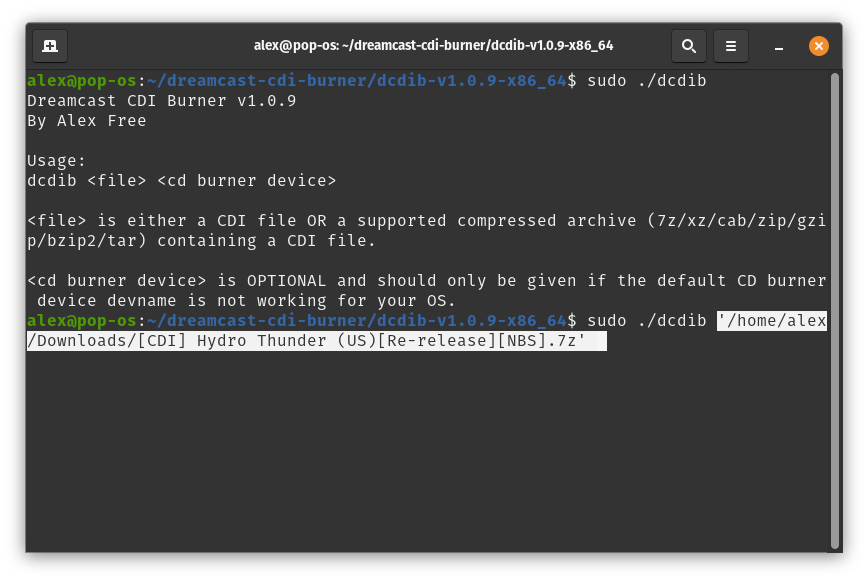
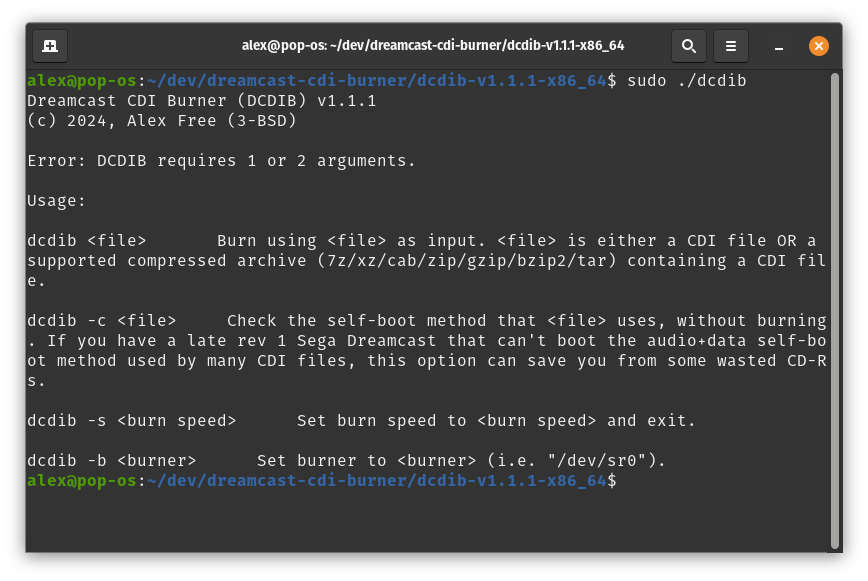
v1.1.1

diff --git a/readme.md b/readme.md
@@ -2,49 +2,77 @@
 
 _by Alex Free_
 
- DCDIB is an open source toolkit for burning Sega Dreamcast `.cdi` files (used for self-booting homebrew programs and backups) to CD-R discs on Linux! CDI is the proprietary format of the Windows only software DiscJuggler. CDI is a very popular format for Sega Dreamcast software distribution. The CD-Rs you burn with DCDIB will _just work_ and boot like authentic Sega Dreamcast GD-ROM discs on revision 0 and revision 1 Sega Dreamcast consoles. **Revision 2 Sega Dreamcast consoles may or may not work with self-booting CD-Rs** due to the MIL-CD exploit being removed from the BIOS chip found on at least some revision 2 consoles. To find out what revision your Sega Dreamcast console is, flip the entire console upside-down and look for the number 0, 1, or 2 in a circle on the model sticker as displayed below:
-
-![dreamcast rev 1 console](images/dreamcast-rev-1.jpg)
-
-DCDIB supports burning **all 4 Sega Dreamcast CDI file format types**:
-
-*   Data ISO (Session 1) + Data ISO (Session 2)
-*   WAV/audio track (Session 1) + Data ISO (Session 2)
-*   Multiple CDDA WAVs/audio tracks (Session 1) + Data ISO (Session 2)
-*   Multiple CDDA WAVs/audio tracks in an ISO (Session 1) + Data ISO (Session 2)
-
-## Links
-
-*   [GitHub](https://github.com/alex-free/dreamcast-cdi-burner)
-*   [Homepage](https://alex-free.github.io/dcdib)
-*   [Dreamcast-Talk Thread](https://www.dreamcast-talk.com/forum/viewtopic.php?f=2&t=13974)
+ DCDIB is an open source toolkit for burning Sega Dreamcast `.cdi` files (used for self-booting homebrew programs and backups) to CD-R discs on Linux! CDI is the proprietary format of the Windows-only software DiscJuggler. CDI is a very popular format for Sega Dreamcast software distribution. The CD-Rs you burn with DCDIB will _just work_ and boot like authentic Sega Dreamcast GD-ROM discs.
+ 
+ | [GitHub](https://github.com/alex-free/dreamcast-cdi-burner) | [Homepage](https://alex-free.github.io/dcdib) | [Dreamcast-Talk Thread](https://www.dreamcast-talk.com/forum/viewtopic.php?f=2&t=13974) |
 
 ## Table Of Contents
 
-*   [Downloads](#downloads)
-*   [CD-R Media](#cd-r-media)
-*   [Usage](#usage)
-*   [Building From Source](build.md)
-*   [License](#license)
+* [Downloads](#downloads)
+* [Self-Boot Console Compatibility](#self-boot-console-compatibility)
+* [CDI Compatibility](#cdi-compatibility)
+* [CD-R Media](#cd-r-media)
+* [Usage](#usage)
+* [Building From Source](build.md)
+* [License](#license)
 
 ## Downloads
 
-### v1.1.0 (5/24/2024)
-
-*   [DCDIB v1.1.0](https://github.com/alex-free/dreamcast-cdi-burner/releases/download/v1.1.0/dcdib-v1.1.0-x86_64.zip) _Portable Release For x86\_64 Linux_.
+### v1.1.1 (9/28/2024)
 
 Changes:
 
-*   Updated CDRTools/CDRecord to the last official version by the original author, [version 3.02a9](https://github.com/alex-free/cdrtools).
+* Added ability to test what self-boot format a CDI file is using, without burning it. This is useful to identify CDI files that are using the audio+data self-boot format, which don't work on later rev 1 Sega Dreamcast consoles. To use this feature, provide the `-c` arguemnt (i.e. `dcdib -c file.cdi`).
 
-*   Fixed a bug where data type CDI files were not closed in the 2nd session during the final burn.
+* Added ability to change the burn speed with an argument (i.e. 'dcdib -s 8'). The burn speed is saved to a config file, and used automatically when dcdib is ran again.
 
-[About previous versions](changelog.md).
+* Added ability to change the burner with an argument (i.e. 'dcdib -b /dev/sr1'). The burner is saved to a config file, and used automatically when dcdib is ran again.
+
+* Updated [PLED](https://github.com/alex-free/pled) to the latest version 1.0.5.
+
+* Temp file directory has been moved from `/tmp` to `/var/tmp`.
+
+* Change to [3-BSD license](license.md) from public domain.
+
+-------------------------------------------------------------------------------------
+
+*   [DCDIB v1.1.1](https://github.com/alex-free/dreamcast-cdi-burner/releases/download/v1.1.1/dcdib-v1.1.1-x86_64.zip) _Portable Release For x86\_64 Linux_.
+
+-------------------------------------------------------------------------------------
+
+[Previous versions](changelog.md).
+
+## CDI Compatibility
+
+DCDIB supports burning **all 4 Sega Dreamcast CDI file format types**:
+
+*   Data ISO (Session 1) + Data ISO (Session 2) (Data+Data method).
+*   WAV/audio track (Session 1) + Data ISO (Session 2) (Audio+Data method).
+*   Multiple CDDA WAVs/audio tracks (Session 1) + Data ISO (Session 2) (Audio+Data method).
+*   Multiple CDDA WAVs/audio tracks in an ISO (Session 1) + Data ISO (Session 2) (Data+Data method).
+
+ ## Self-Boot Console Compatibility
+
+ The ability to use self-booting CDIs on an unmodified Sega Dreamcast depends on the console revision that you own. There are 2 different CDI methods, audio+data and data+data.
+
+| Console | Can Use AUDIO+DATA Self-Boot Method? | Can DATA+DATA Self-Boot Method ?|
+| --------| ---------------------------- | ------------------------------|
+| Rev 0 | Yes. | Yes. |
+| Early Rev 1 (September 1999 to May 2000 or possibly a bit earlier) | Yes. | Yes. |
+| Late Rev 1 (June 2000 or possibly a bit earlier to October 2000 | No. | YES. |
+| Rev 2 (October 2000) | No. | No. |
+
+To find the console revision, flip the entire console upside-down and look for the number 0, 1, or 2 in a circle on the model sticker as displayed below:
+
+![dreamcast early rev 1 console](images/dreamcast-early-rev-1.jpeg)
+
+Additionally, NTSC-U consoles have the date of manufacture on the label, which helps with identifying things like a late rev 1:
+
+![dreamcast late rev 1 console](images/dreamcast-late-rev-1.jpeg)
 
 ## CD-R Media
 
 It is recommend to only use high-quality CD-R media with a Good CD-R Burner. My [Ultimate Guide To PSX CD-Rs](https://alex-free.github.io/psx-cdr) has a ton of info with that is also useful for Dreamcast in regards to good CD-R media and burners. The only thing specific to PSX is recommending 71 or 74 minute CD-Rs. While some CDI files can fit on lower capacity CD-Rs (i.e. 74 minutes), most CDI files target 80 minute CD-Rs. For CDI files targeting CD-R capacities larger then 80 minutes, such as 99 or 100 minute CD-Rs, be aware that not all 99 or 100 minute CD-Rs are compatible with the Dreamcast, and some burners don't even support writing that much data to a disc as it is way out of Red Book spec. Some specific brands/types of 99 and 100 minute CD-Rs DO however work, though I don't have any tests done myself yet.
-
 
 If you are still having issues booting even high quality CD-Rs on the Sega Dreamcast, consider wiping with a clean microfiber cloth from the inner ring to the outer edge of the CD-R in all directions and then trying to boot the disc again.
 
@@ -58,21 +86,32 @@ If you are still having issues booting even high quality CD-Rs on the Sega Dream
 
 3) **Using sudo execute the `dcdib` script in the extracted release directory with 1 or 2 arguments**. Root privileges are required to ensure that buffer under-runs do not occur during burning which would result in a CD-R coaster. Root privileges also ensure that `cdrecord` can access your CD burner hardware successfully to burn the CD-R.
 
-The first argument is the filepath to either a CDI file OR a supported compressed archive (7z/xz/cab/zip/gzip/bzip2/tar) containing a CDI file.
+If your only using one argument, it must be the filepath to either a CDI file OR a supported compressed archive (7z/xz/cab/zip/gzip/bzip2/tar) containing a CDI file.
 
 ![DCDIB usage 1](images/dcdib-usage-1.png)
 
 ![DCDIB usage 2](images/dcdib-usage-2.png)
 
-![DCDIB usage 3](images/dcdib-usage-3.png)
+If your using 2 arguments:
 
-The second argument is completely optional, it allows you to change the CD burner's device devname to a custom one. DCDIB already provides a default CD burner device devname to use which should work on most if not all Linux distributions (`/dev/sr0`). However if you find this to not work on your setup you can provide your own in the optional second argument to DCDIB. You will know if you need to specify this argument because something like below will be displayed:
+`Usage:`
+
+`dcdib <file>       Burn using <file> as input. <file> is either a CDI file OR a supported compressed archive (7z/xz/cab/zip/gzip/bzip2/tar) containing a CDI file.`
+
+`dcdib -c <file>        Check the self-boot method that <file> uses, without burning. If you have a late rev 1 Sega Dreamcast that can't boot the audio+data self-boot method used by many CDI files, this option can save you from some wasted CD-Rs.`
+
+`dcdib -s <burn speed>       Set burn speed to <burn speed> and exit.`
+
+`dcdib -b <burner>      Set burner to <burner> (i.e. "/dev/sr0").`
+
+
+Note: DCDIB provides a default CD burner config which should work on most if not all Linux distributions (`/dev/sr0`). If you find this to not work on your setup or if you have multiple drives, you can change it. You will know if you need to specify this argument because something like below will be displayed (if you a single burner that isn't at `/dev/sr0`):
 
 ![DCDIB devname](images/dcdib-devname.png)
 
 ## License
 
-DCDIB itself is released into the public domain, see the file `dcdib.md` in the `licenses` directory.
+DCDIB itself is released as open source software under the 3-BSD license, see the file `dcdib.md` in the `licenses` directory.
 
 DCDIB makes use of the following programs listed below, which have their own licenses/terms:
 

diff --git a/license.md b/license.md
@@ -1,0 +1,25 @@
+# BSD 3-Clause License
+Copyright (c) 2024, Alex Free
+
+All rights reserved.
+
+Redistribution and use in source and binary forms, with or without
+modification, are permitted provided that the following conditions are met:
+* Redistributions of source code must retain the above copyright notice, this
+  list of conditions and the following disclaimer.
+* Redistributions in binary form must reproduce the above copyright notice,
+  this list of conditions and the following disclaimer in the documentation
+  and/or other materials provided with the distribution.
+* Neither the name of the copyright holder nor the names of its
+  contributors may be used to endorse or promote products derived from
+  this software without specific prior written permission.
+THIS SOFTWARE IS PROVIDED BY THE COPYRIGHT HOLDERS AND CONTRIBUTORS "AS IS"
+AND ANY EXPRESS OR IMPLIED WARRANTIES, INCLUDING, BUT NOT LIMITED TO, THE
+IMPLIED WARRANTIES OF MERCHANTABILITY AND FITNESS FOR A PARTICULAR PURPOSE ARE
+DISCLAIMED. IN NO EVENT SHALL THE COPYRIGHT HOLDER OR CONTRIBUTORS BE LIABLE
+FOR ANY DIRECT, INDIRECT, INCIDENTAL, SPECIAL, EXEMPLARY, OR CONSEQUENTIAL
+DAMAGES (INCLUDING, BUT NOT LIMITED TO, PROCUREMENT OF SUBSTITUTE GOODS OR
+SERVICES; LOSS OF USE, DATA, OR PROFITS; OR BUSINESS INTERRUPTION) HOWEVER
+CAUSED AND ON ANY THEORY OF LIABILITY, WHETHER IN CONTRACT, STRICT LIABILITY,
+OR TORT (INCLUDING NEGLIGENCE OR OTHERWISE) ARISING IN ANY WAY OUT OF THE USE
+OF THIS SOFTWARE, EVEN IF ADVISED OF THE POSSIBILITY OF SUCH DAMAGE.

diff --git a/changelog.md b/changelog.md
@@ -1,5 +1,27 @@
 # [Dreamcast CDI Burner](readme.md) -> Changelog
 
+## v1.1.1 (9/28/2024)
+
+*   [DCDIB v1.1.1](https://github.com/alex-free/dreamcast-cdi-burner/releases/download/v1.1.1/dcdib-v1.1.1-x86_64.zip) _Portable Release For x86\_64 Linux_.
+
+Changes:
+
+*   Updated [PLED](https://github.com/alex-free/pled) to the latest version 1.0.5.
+
+*   Temp file directory has been moved from `/tmp` to `/var/tmp`.
+
+[About previous versions](changelog.md).
+
+## v1.1.0 (5/24/2024)
+
+*   [DCDIB v1.1.0](https://github.com/alex-free/dreamcast-cdi-burner/releases/download/v1.1.0/dcdib-v1.1.0-x86_64.zip) _Portable Release For x86\_64 Linux_.
+
+Changes:
+
+*   Updated CDRTools/CDRecord to the last official version by the original author, [version 3.02a9](https://github.com/alex-free/cdrtools).
+
+*   Fixed a bug where data type CDI files were not closed in the 2nd session during the final burn.
+
 ## v1.0.9 (3/28/2024)
 
 *   [DCDIB v1.0.9](https://github.com/alex-free/dreamcast-cdi-burner/releases/download/v1.0.9/dcdib-v1.0.9-x86_64.zip) _For x86\_64 Linux_.
